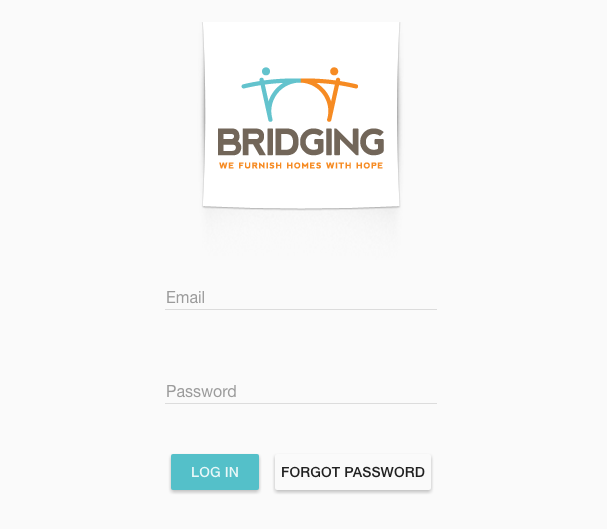
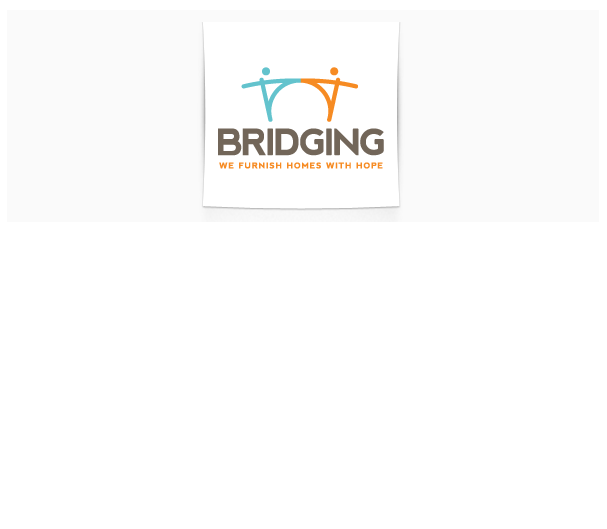
Site updated: 2017-06-23 19:06:00

Changed region(s): [[0.2669, 0.8469, 0.7117, 0.9376], [0.2669, 0.7259, 0.3855, 0.7561], [0.2669, 0.5444, 0.3558, 0.5747]]

diff --git a/2017/06/23/bridging-connect/index.html b/2017/06/23/bridging-connect/index.html
@@ -85,12 +85,11 @@
 <div class="col-lg-8 col-12 pt-lg-3 mb-4 pl-lg-5 px-lg-0 px-4 portfolio-content">
   <h1 id="Bridging-MN-Appointment-Scheduling-Application"><a href="#Bridging-MN-Appointment-Scheduling-Application" class="headerlink" title="Bridging MN Appointment Scheduling Application"></a><a href="https://bridging-connect.herokuapp.com" target="_blank" rel="external">Bridging MN Appointment Scheduling Application</a></h1><p>Bridging Connect is a custom-built appointment management application for Bridging, a nonprofit furniture bank in the Twin Cities metro area. Bridging makes 4500 appointments every year with individuals in need of furniture and basic household goods. The appointments are made for these individuals by social service caseworkers, over 1600 of whom are currently registered in Bridging’s system.</p>
 <p>Bridging Connect is built to smoothly facilitate the scheduling of shopping appointments, pickups and deliveries at Bridging’s Bloomington and Roseville locations. It includes an interface for caseworkers to schedule appointments for their clients, as well as an administrator interface for managing user accounts and appointment availability.</p>
-<h2 id="Application-Features"><a href="#Application-Features" class="headerlink" title="Application Features"></a>Application Features</h2><h3 id="Administrator-Login"><a href="#Administrator-Login" class="headerlink" title="Administrator Login"></a>Administrator Login</h3><p><img src="bridging_connect/Login.png" alt="Login"></p>
-<h3 id="1-1-0-View-all-appointments"><a href="#1-1-0-View-all-appointments" class="headerlink" title="1.1.0 View all appointments"></a>1.1.0 View all appointments</h3><h3 id="1-1-1-Search-based-on-any-parameters-the-appointment"><a href="#1-1-1-Search-based-on-any-parameters-the-appointment" class="headerlink" title="1.1.1 Search based on any parameters the appointment"></a>1.1.1 Search based on any parameters the appointment</h3><h3 id="1-1-2-View-Details-of-each-appointment"><a href="#1-1-2-View-Details-of-each-appointment" class="headerlink" title="1.1.2 View Details of each appointment"></a>1.1.2 View Details of each appointment</h3><h3 id="1-1-3-Edit-Appointment-or-Client-Information"><a href="#1-1-3-Edit-Appointment-or-Client-Information" class="headerlink" title="1.1.3 Edit Appointment or Client Information"></a>1.1.3 Edit Appointment or Client Information</h3><h3 id="1-1-4-Confirm-Cancel-or-Deny-Appointment"><a href="#1-1-4-Confirm-Cancel-or-Deny-Appointment" class="headerlink" title="1.1.4 Confirm, Cancel or Deny Appointment"></a>1.1.4 Confirm, Cancel or Deny Appointment</h3><h3 id="1-2-0-View-all-pending-appointments"><a href="#1-2-0-View-all-pending-appointments" class="headerlink" title="1.2.0 View all pending appointments"></a>1.2.0 View all pending appointments</h3><h3 id="1-2-1-Search-based-on-any-parameters-the-appointment"><a href="#1-2-1-Search-based-on-any-parameters-the-appointment" class="headerlink" title="1.2.1 Search based on any parameters the appointment"></a>1.2.1 Search based on any parameters the appointment</h3><h3 id="1-2-2-View-Details-of-each-appointment"><a href="#1-2-2-View-Details-of-each-appointment" class="headerlink" title="1.2.2 View Details of each appointment"></a>1.2.2 View Details of each appointment</h3><h3 id="1-2-3-Edit-Appointment-or-Client-Information"><a href="#1-2-3-Edit-Appointment-or-Client-Information" class="headerlink" title="1.2.3 Edit Appointment or Client Information"></a>1.2.3 Edit Appointment or Client Information</h3><h3 id="1-2-4-Confirm-Cancel-or-Deny-Appointment"><a href="#1-2-4-Confirm-Cancel-or-Deny-Appointment" class="headerlink" title="1.2.4 Confirm, Cancel or Deny Appointment"></a>1.2.4 Confirm, Cancel or Deny Appointment</h3><h3 id="1-3-0-View-all-caseworkers"><a href="#1-3-0-View-all-caseworkers" class="headerlink" title="1.3.0 View all caseworkers"></a>1.3.0 View all caseworkers</h3><h3 id="1-3-1-Search-Caseworkers-by-any-parameter-listed-in-the-table"><a href="#1-3-1-Search-Caseworkers-by-any-parameter-listed-in-the-table" class="headerlink" title="1.3.1 Search Caseworkers by any parameter listed in the table"></a>1.3.1 Search Caseworkers by any parameter listed in the table</h3><h3 id="1-3-2-Add-a-new-caseworker"><a href="#1-3-2-Add-a-new-caseworker" class="headerlink" title="1.3.2 Add a new caseworker"></a>1.3.2 Add a new caseworker</h3><h3 id="1-3-3-Edit-or-Delete-caseworker"><a href="#1-3-3-Edit-or-Delete-caseworker" class="headerlink" title="1.3.3 Edit or Delete caseworker"></a>1.3.3 Edit or Delete caseworker</h3><h3 id="1-4-0-View-all-agencies"><a href="#1-4-0-View-all-agencies" class="headerlink" title="1.4.0 View all agencies"></a>1.4.0 View all agencies</h3><!-- ![Agencies](screenshots/Agencies.png) -->
-<img src="/hexo-blog/2017/06/23/bridging-connect/Agencies.png" alt="Agencies" title="Agencies">
-<h3 id="1-4-1-Search-Agency-by-any-parameter-listed-in-the-table"><a href="#1-4-1-Search-Agency-by-any-parameter-listed-in-the-table" class="headerlink" title="1.4.1 Search Agency by any parameter listed in the table"></a>1.4.1 Search Agency by any parameter listed in the table</h3><h3 id="1-4-2-Add-a-new-agency"><a href="#1-4-2-Add-a-new-agency" class="headerlink" title="1.4.2 Add a new agency"></a>1.4.2 Add a new agency</h3><h3 id="1-4-3-Edit-or-Delete-agency"><a href="#1-4-3-Edit-or-Delete-agency" class="headerlink" title="1.4.3 Edit or Delete agency"></a>1.4.3 Edit or Delete agency</h3><h3 id="1-5-0-View-Default-Schedule"><a href="#1-5-0-View-Default-Schedule" class="headerlink" title="1.5.0 View Default Schedule"></a>1.5.0 View Default Schedule</h3><p><img src="screenshots/DefaultSchedule.png" alt="Default Schedule"></p>
-<h3 id="1-5-1-Add-new-Default-Slot"><a href="#1-5-1-Add-new-Default-Slot" class="headerlink" title="1.5.1 Add new Default Slot"></a>1.5.1 Add new Default Slot</h3><h3 id="1-5-2-Edit-Default-Slot"><a href="#1-5-2-Edit-Default-Slot" class="headerlink" title="1.5.2 Edit Default Slot"></a>1.5.2 Edit Default Slot</h3><h3 id="1-6-0-View-Schedule-Overrides"><a href="#1-6-0-View-Schedule-Overrides" class="headerlink" title="1.6.0 View Schedule Overrides"></a>1.6.0 View Schedule Overrides</h3><h3 id="1-6-1-Add-New-Override-by-Date"><a href="#1-6-1-Add-New-Override-by-Date" class="headerlink" title="1.6.1 Add New Override by Date"></a>1.6.1 Add New Override by Date</h3><p><img src="screenshots/OverrideByDate.png" alt="Override By Date"></p>
-<h3 id="Caseworker-Login"><a href="#Caseworker-Login" class="headerlink" title="Caseworker Login"></a>Caseworker Login</h3><p><img src="screenshots/Login.png" alt="Login"></p>
+<h2 id="Application-Features"><a href="#Application-Features" class="headerlink" title="Application Features"></a>Application Features</h2><h3 id="Administrator-Login"><a href="#Administrator-Login" class="headerlink" title="Administrator Login"></a>Administrator Login</h3><img src="/hexo-blog/2017/06/23/bridging-connect/Login.png" alt="Login" title="Login">
+<h3 id="1-1-0-View-all-appointments"><a href="#1-1-0-View-all-appointments" class="headerlink" title="1.1.0 View all appointments"></a>1.1.0 View all appointments</h3><h3 id="1-1-1-Search-based-on-any-parameters-the-appointment"><a href="#1-1-1-Search-based-on-any-parameters-the-appointment" class="headerlink" title="1.1.1 Search based on any parameters the appointment"></a>1.1.1 Search based on any parameters the appointment</h3><h3 id="1-1-2-View-Details-of-each-appointment"><a href="#1-1-2-View-Details-of-each-appointment" class="headerlink" title="1.1.2 View Details of each appointment"></a>1.1.2 View Details of each appointment</h3><h3 id="1-1-3-Edit-Appointment-or-Client-Information"><a href="#1-1-3-Edit-Appointment-or-Client-Information" class="headerlink" title="1.1.3 Edit Appointment or Client Information"></a>1.1.3 Edit Appointment or Client Information</h3><h3 id="1-1-4-Confirm-Cancel-or-Deny-Appointment"><a href="#1-1-4-Confirm-Cancel-or-Deny-Appointment" class="headerlink" title="1.1.4 Confirm, Cancel or Deny Appointment"></a>1.1.4 Confirm, Cancel or Deny Appointment</h3><h3 id="1-2-0-View-all-pending-appointments"><a href="#1-2-0-View-all-pending-appointments" class="headerlink" title="1.2.0 View all pending appointments"></a>1.2.0 View all pending appointments</h3><h3 id="1-2-1-Search-based-on-any-parameters-the-appointment"><a href="#1-2-1-Search-based-on-any-parameters-the-appointment" class="headerlink" title="1.2.1 Search based on any parameters the appointment"></a>1.2.1 Search based on any parameters the appointment</h3><h3 id="1-2-2-View-Details-of-each-appointment"><a href="#1-2-2-View-Details-of-each-appointment" class="headerlink" title="1.2.2 View Details of each appointment"></a>1.2.2 View Details of each appointment</h3><h3 id="1-2-3-Edit-Appointment-or-Client-Information"><a href="#1-2-3-Edit-Appointment-or-Client-Information" class="headerlink" title="1.2.3 Edit Appointment or Client Information"></a>1.2.3 Edit Appointment or Client Information</h3><h3 id="1-2-4-Confirm-Cancel-or-Deny-Appointment"><a href="#1-2-4-Confirm-Cancel-or-Deny-Appointment" class="headerlink" title="1.2.4 Confirm, Cancel or Deny Appointment"></a>1.2.4 Confirm, Cancel or Deny Appointment</h3><h3 id="1-3-0-View-all-caseworkers"><a href="#1-3-0-View-all-caseworkers" class="headerlink" title="1.3.0 View all caseworkers"></a>1.3.0 View all caseworkers</h3><h3 id="1-3-1-Search-Caseworkers-by-any-parameter-listed-in-the-table"><a href="#1-3-1-Search-Caseworkers-by-any-parameter-listed-in-the-table" class="headerlink" title="1.3.1 Search Caseworkers by any parameter listed in the table"></a>1.3.1 Search Caseworkers by any parameter listed in the table</h3><h3 id="1-3-2-Add-a-new-caseworker"><a href="#1-3-2-Add-a-new-caseworker" class="headerlink" title="1.3.2 Add a new caseworker"></a>1.3.2 Add a new caseworker</h3><h3 id="1-3-3-Edit-or-Delete-caseworker"><a href="#1-3-3-Edit-or-Delete-caseworker" class="headerlink" title="1.3.3 Edit or Delete caseworker"></a>1.3.3 Edit or Delete caseworker</h3><h3 id="1-4-0-View-all-agencies"><a href="#1-4-0-View-all-agencies" class="headerlink" title="1.4.0 View all agencies"></a>1.4.0 View all agencies</h3><img src="/hexo-blog/2017/06/23/bridging-connect/Agencies.png" alt="Agencies" title="Agencies">
+<h3 id="1-4-1-Search-Agency-by-any-parameter-listed-in-the-table"><a href="#1-4-1-Search-Agency-by-any-parameter-listed-in-the-table" class="headerlink" title="1.4.1 Search Agency by any parameter listed in the table"></a>1.4.1 Search Agency by any parameter listed in the table</h3><h3 id="1-4-2-Add-a-new-agency"><a href="#1-4-2-Add-a-new-agency" class="headerlink" title="1.4.2 Add a new agency"></a>1.4.2 Add a new agency</h3><h3 id="1-4-3-Edit-or-Delete-agency"><a href="#1-4-3-Edit-or-Delete-agency" class="headerlink" title="1.4.3 Edit or Delete agency"></a>1.4.3 Edit or Delete agency</h3><h3 id="1-5-0-View-Default-Schedule"><a href="#1-5-0-View-Default-Schedule" class="headerlink" title="1.5.0 View Default Schedule"></a>1.5.0 View Default Schedule</h3><img src="/hexo-blog/2017/06/23/bridging-connect/DefaultSchedule.png" alt="Default Schedule" title="Default Schedule">
+<h3 id="1-5-1-Add-new-Default-Slot"><a href="#1-5-1-Add-new-Default-Slot" class="headerlink" title="1.5.1 Add new Default Slot"></a>1.5.1 Add new Default Slot</h3><h3 id="1-5-2-Edit-Default-Slot"><a href="#1-5-2-Edit-Default-Slot" class="headerlink" title="1.5.2 Edit Default Slot"></a>1.5.2 Edit Default Slot</h3><h3 id="1-6-0-View-Schedule-Overrides"><a href="#1-6-0-View-Schedule-Overrides" class="headerlink" title="1.6.0 View Schedule Overrides"></a>1.6.0 View Schedule Overrides</h3><h3 id="1-6-1-Add-New-Override-by-Date"><a href="#1-6-1-Add-New-Override-by-Date" class="headerlink" title="1.6.1 Add New Override by Date"></a>1.6.1 Add New Override by Date</h3><img src="/hexo-blog/2017/06/23/bridging-connect/OverrideByDate.png" alt="Override By Date" title="Override By Date">
+<h3 id="Caseworker-Login"><a href="#Caseworker-Login" class="headerlink" title="Caseworker Login"></a>Caseworker Login</h3><img src="/hexo-blog/2017/06/23/bridging-connect/Login.png" alt="Login" title="Login">
 <h3 id="2-1-0-View-All-Appointments"><a href="#2-1-0-View-All-Appointments" class="headerlink" title="2.1.0 View All Appointments"></a>2.1.0 View All Appointments</h3><h3 id="2-1-1-Cancel-or-Reschedule-Appointments"><a href="#2-1-1-Cancel-or-Reschedule-Appointments" class="headerlink" title="2.1.1 Cancel or Reschedule Appointments"></a>2.1.1 Cancel or Reschedule Appointments</h3><h3 id="2-1-2-Edit-Client-Referral-Form"><a href="#2-1-2-Edit-Client-Referral-Form" class="headerlink" title="2.1.2 Edit Client Referral Form"></a>2.1.2 Edit Client Referral Form</h3><h3 id="2-2-0-Create-New-Appointment-for-furniture"><a href="#2-2-0-Create-New-Appointment-for-furniture" class="headerlink" title="2.2.0 Create New Appointment for furniture"></a>2.2.0 Create New Appointment for furniture</h3><h3 id="2-2-1-Caseworker-selects-delivery-or-pick-up"><a href="#2-2-1-Caseworker-selects-delivery-or-pick-up" class="headerlink" title="2.2.1 Caseworker selects delivery or pick up"></a>2.2.1 Caseworker selects delivery or pick up</h3><h3 id="2-2-2-Delivery-option-directs-you-to-warehouse-location-based-on-Zipcode"><a href="#2-2-2-Delivery-option-directs-you-to-warehouse-location-based-on-Zipcode" class="headerlink" title="2.2.2 Delivery option directs you to warehouse location based on Zipcode"></a>2.2.2 Delivery option directs you to warehouse location based on Zipcode</h3><h3 id="2-2-3-Caseworker-selects-preferred-appointment-Date-and-time"><a href="#2-2-3-Caseworker-selects-preferred-appointment-Date-and-time" class="headerlink" title="2.2.3 Caseworker selects preferred appointment Date and time"></a>2.2.3 Caseworker selects preferred appointment Date and time</h3><h3 id="2-2-4-Caseworker-completes-Client-Referral-Form"><a href="#2-2-4-Caseworker-completes-Client-Referral-Form" class="headerlink" title="2.2.4 Caseworker completes Client Referral Form"></a>2.2.4 Caseworker completes Client Referral Form</h3><h3 id="2-3-0-Create-New-Appointment-for-New-Bed-Only"><a href="#2-3-0-Create-New-Appointment-for-New-Bed-Only" class="headerlink" title="2.3.0 Create New Appointment for New Bed Only"></a>2.3.0 Create New Appointment for New Bed Only</h3><h3 id="2-3-1-Caseworker-selects-delivery-or-pick-up"><a href="#2-3-1-Caseworker-selects-delivery-or-pick-up" class="headerlink" title="2.3.1 Caseworker selects delivery or pick up"></a>2.3.1 Caseworker selects delivery or pick up</h3><h3 id="2-3-2-Delivery-option-directs-you-to-warehouse-location-based-on-Zipcode"><a href="#2-3-2-Delivery-option-directs-you-to-warehouse-location-based-on-Zipcode" class="headerlink" title="2.3.2 Delivery option directs you to warehouse location based on Zipcode"></a>2.3.2 Delivery option directs you to warehouse location based on Zipcode</h3><h3 id="2-3-3-Caseworker-selects-preferred-appointment-Date-and-time"><a href="#2-3-3-Caseworker-selects-preferred-appointment-Date-and-time" class="headerlink" title="2.3.3 Caseworker selects preferred appointment Date and time"></a>2.3.3 Caseworker selects preferred appointment Date and time</h3><h3 id="2-3-4-Caseworker-completes-Client-Referral-Form"><a href="#2-3-4-Caseworker-completes-Client-Referral-Form" class="headerlink" title="2.3.4 Caseworker completes Client Referral Form"></a>2.3.4 Caseworker completes Client Referral Form</h3><h2 id="Getting-Started"><a href="#Getting-Started" class="headerlink" title="Getting Started"></a>Getting Started</h2><p>These instructions will get you a copy of the project up and running on your local machine for development and testing purposes. See deployment for notes on how to deploy the project on a live system.</p>
 <h3 id="Prerequisites"><a href="#Prerequisites" class="headerlink" title="Prerequisites"></a>Prerequisites</h3><p>You will need to have the following software installed.</p>
 <figure class="highlight plain"><table><tr><td class="gutter"><pre><div class="line">1</div></pre></td><td class="code"><pre><div class="line">[Node.js](https://nodejs.org/en/)</div></pre></td></tr></table></figure>
